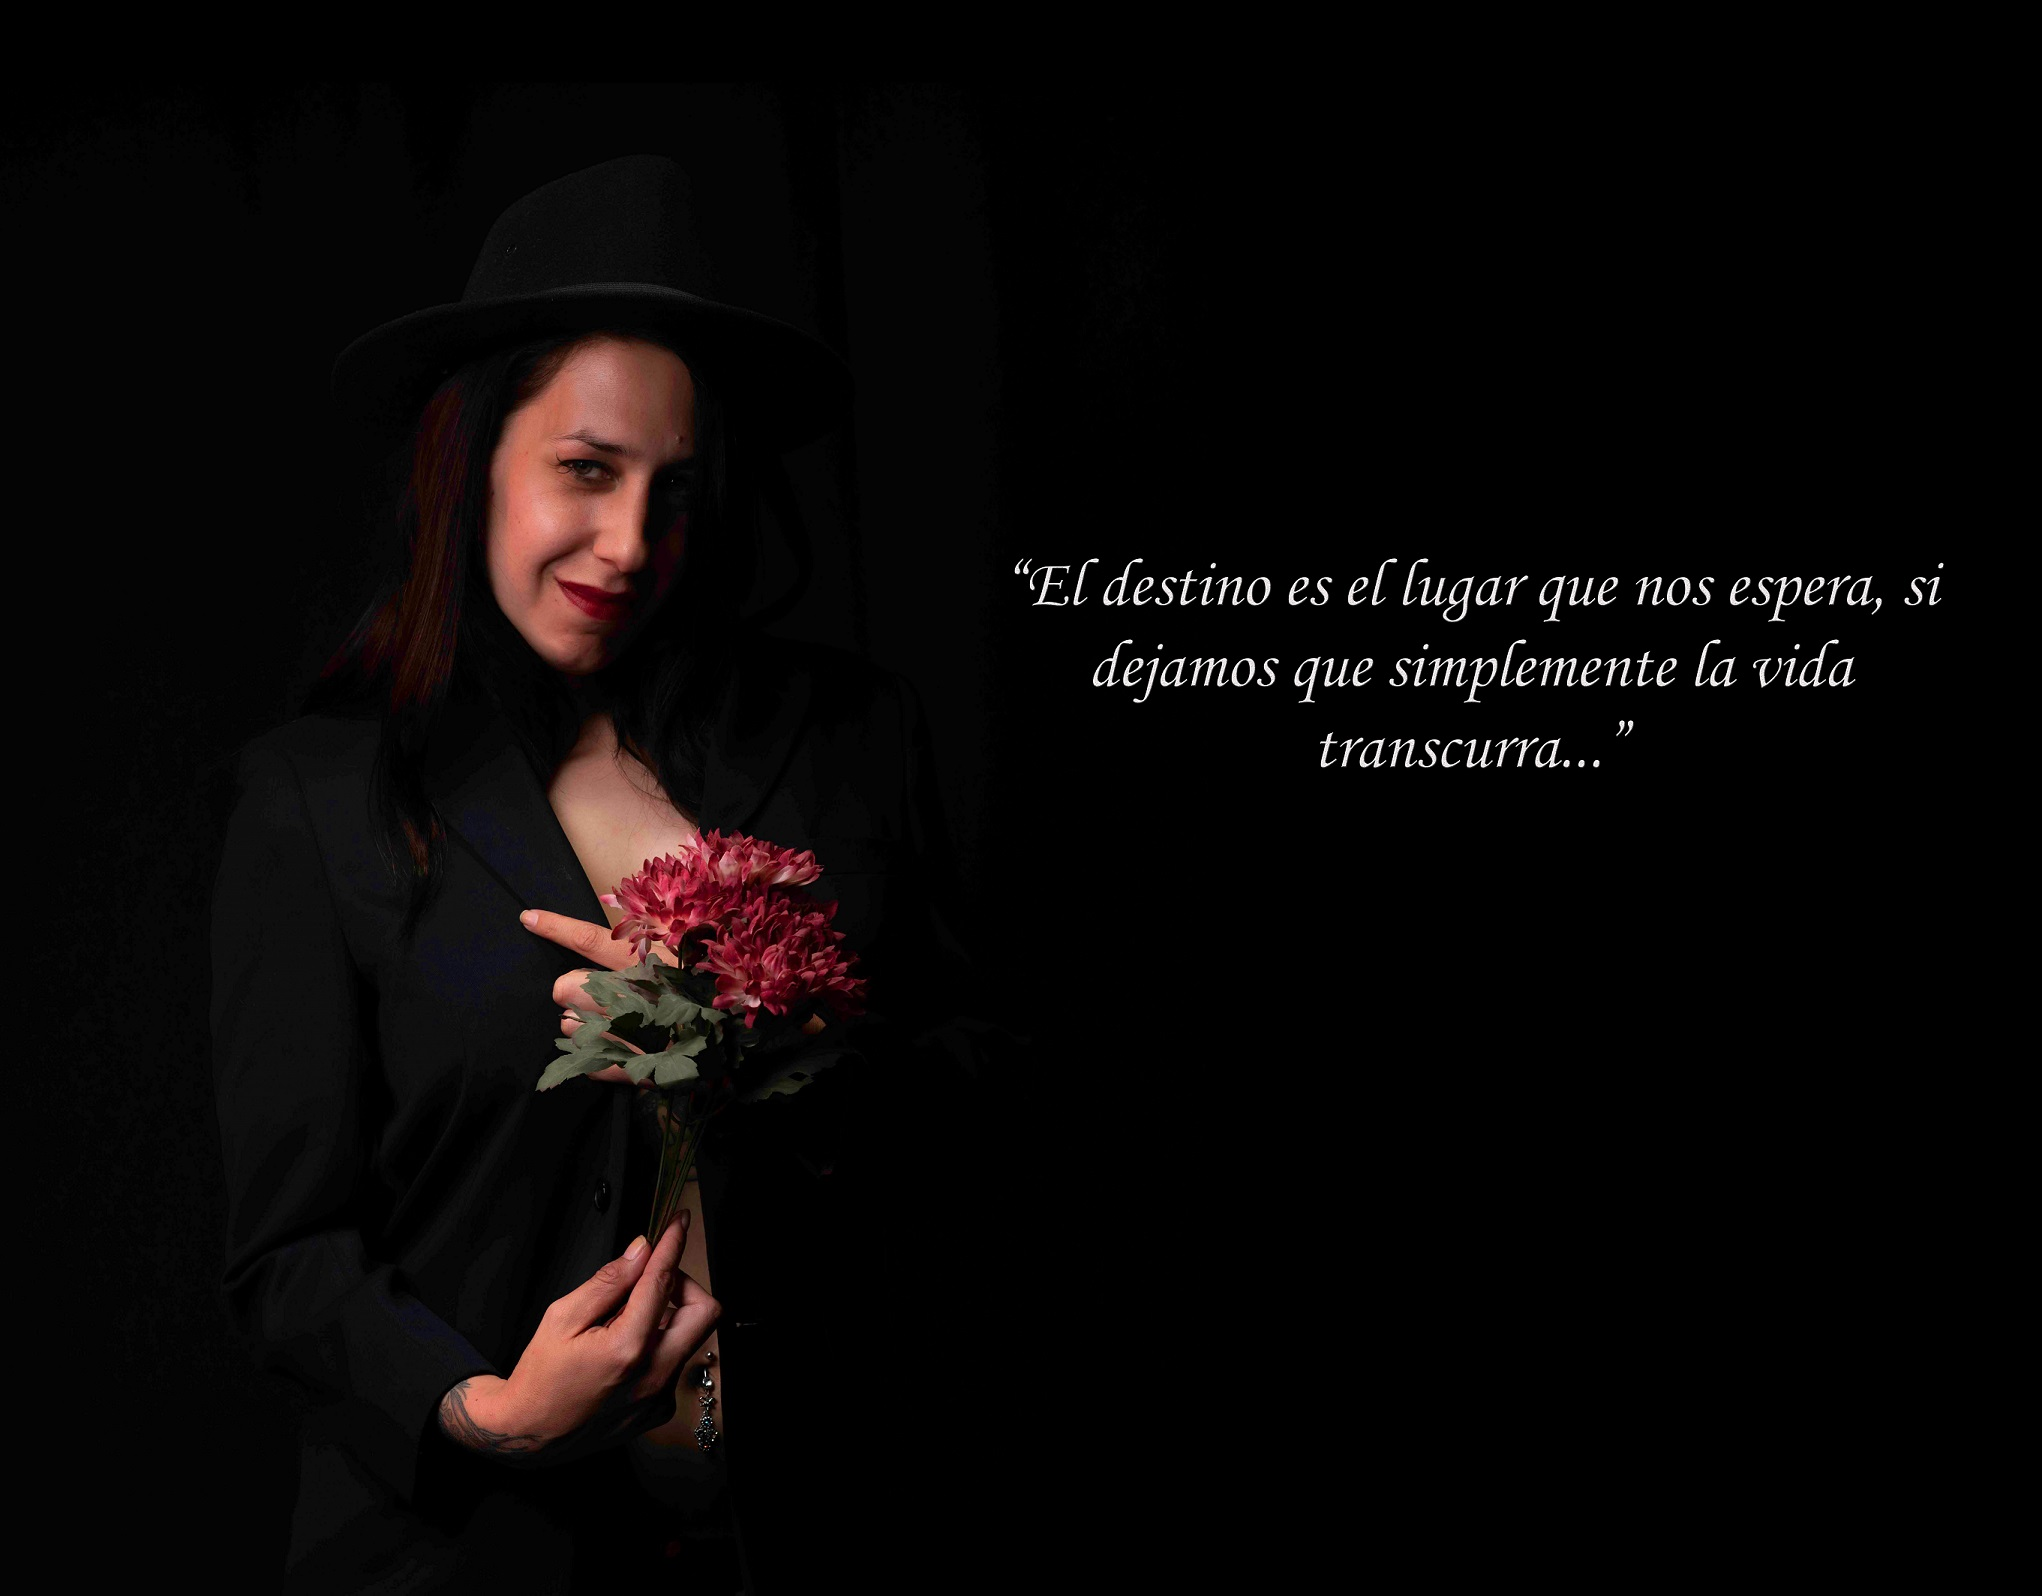
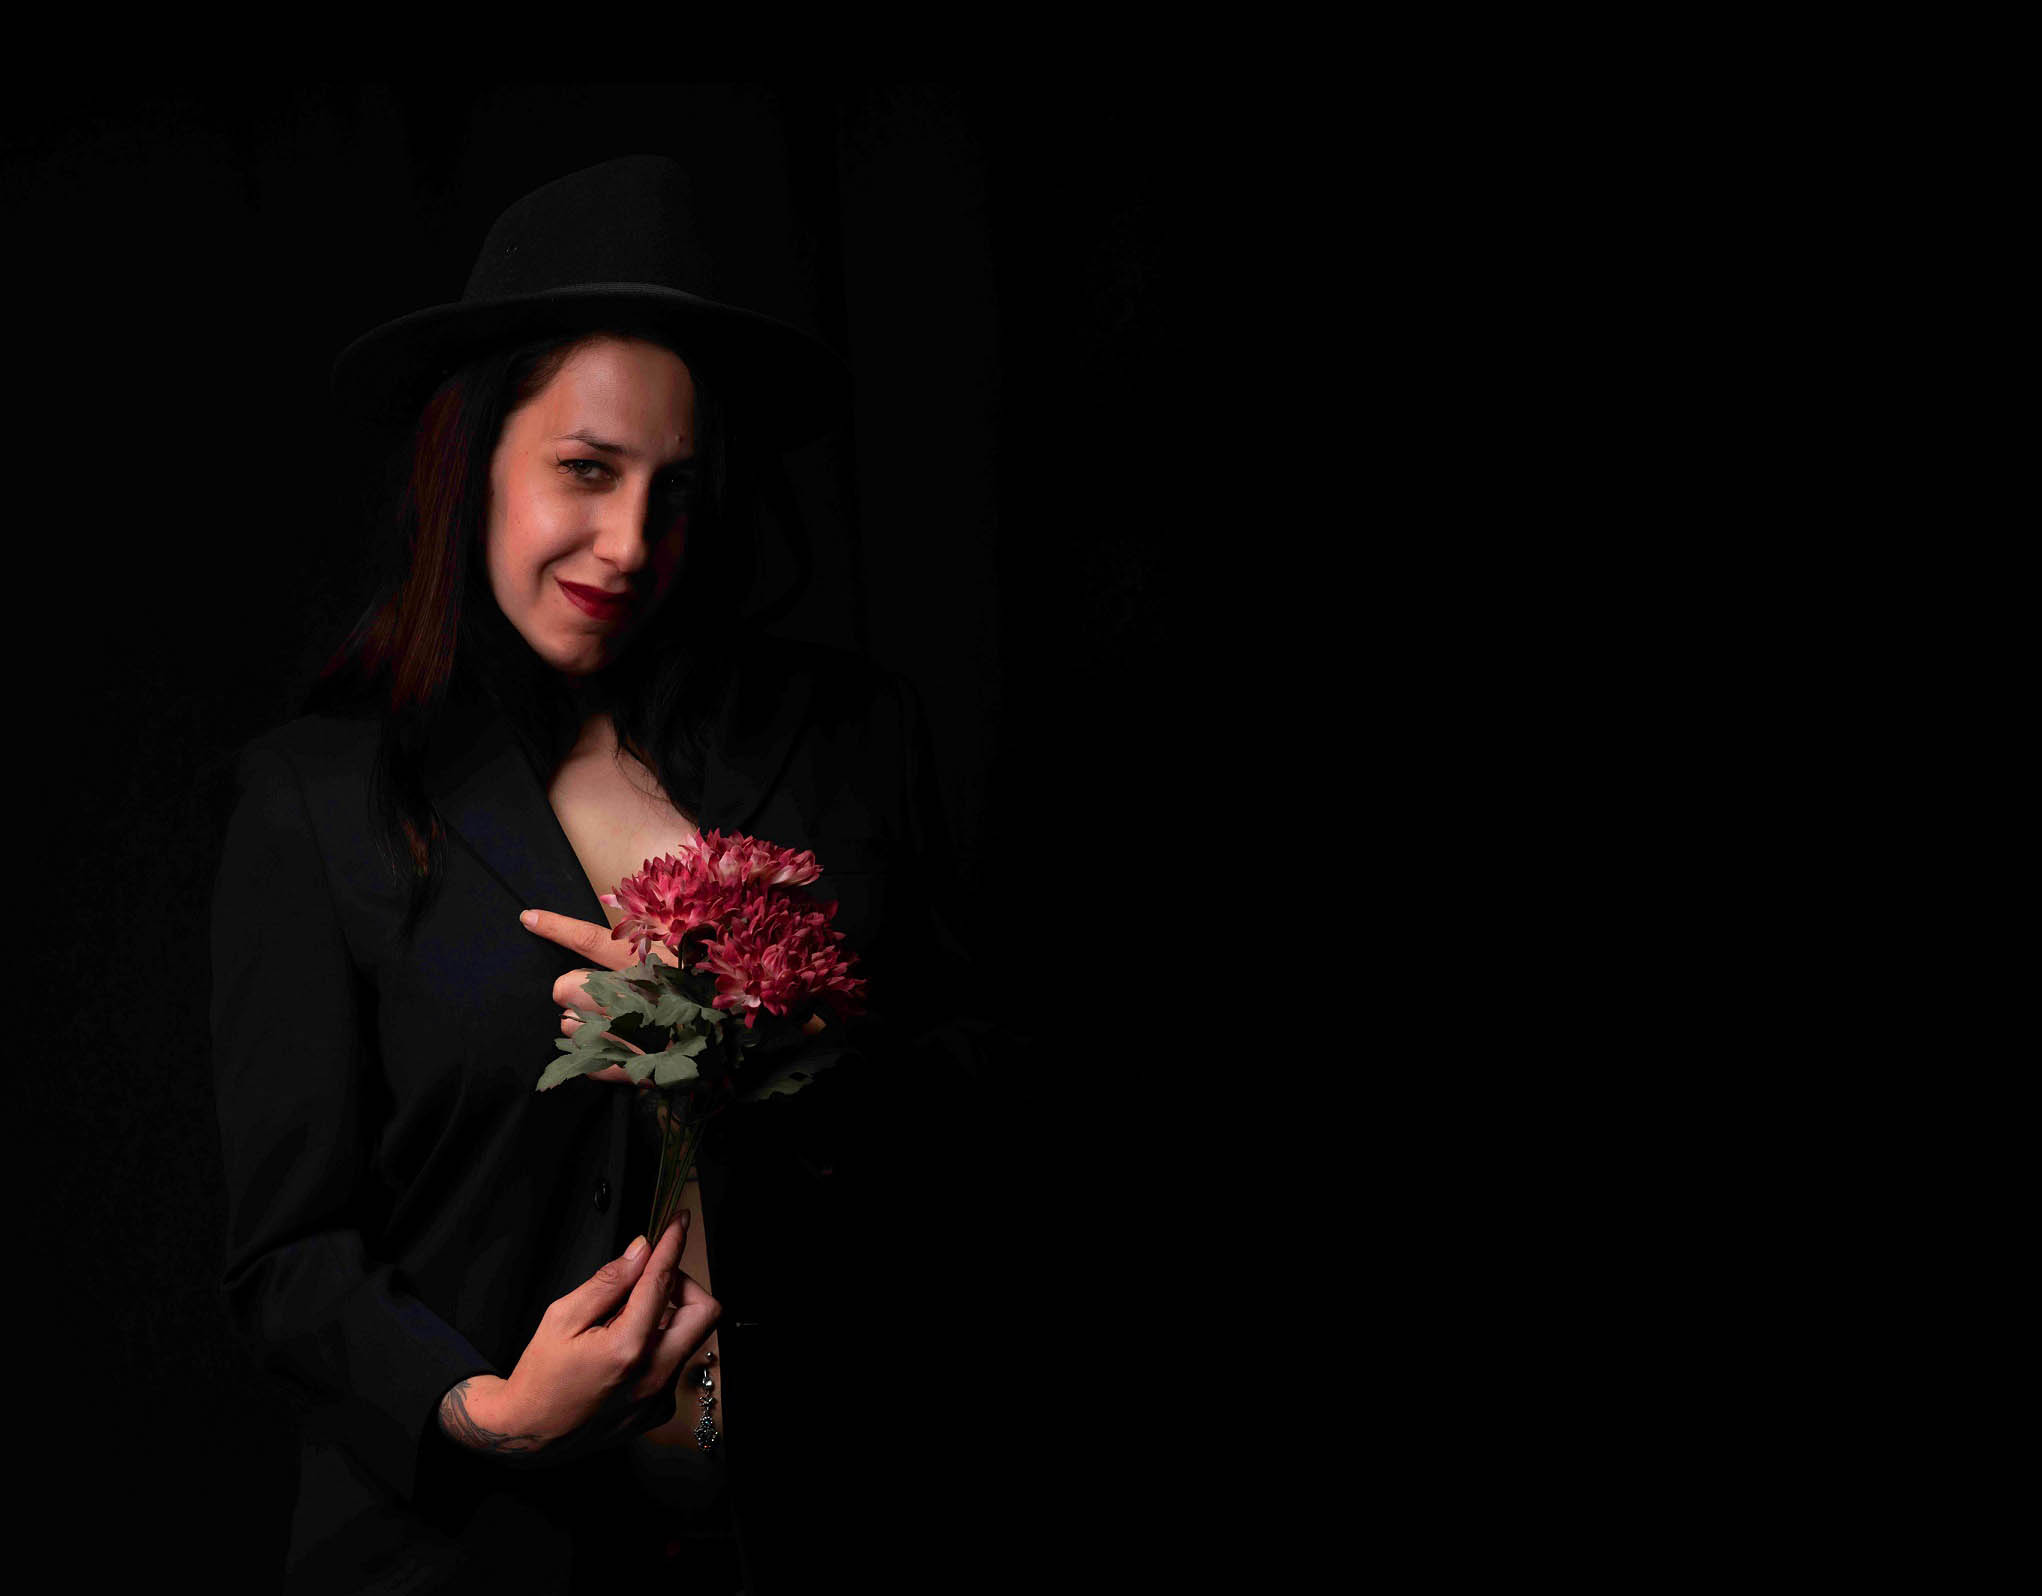
COMMIT

Changed region(s): [[0.4936, 0.3377, 0.9256, 0.4298], [0.6479, 0.4605, 0.7713, 0.4912]]

diff --git a/index.html b/index.html
@@ -1,4 +1,4 @@
-<!DOCTYPE html>
+<!DOCTYPE html5>
 
 <!--CONTRATO-->
 
@@ -16,7 +16,11 @@
     <link href="https://fonts.googleapis.com/css2?family=Oswald:wght@200;300;400&display=swap" rel="stylesheet">
     <!--CUSTOM CSS-->
     <link rel="stylesheet" href="style.css">
-</head>
+    <!--ANIMATED STYLE CSS-->
+    <link rel="stylesheet" href="https://cdnjs.cloudflare.com/ajax/libs/animate.css/4.0.0/animate.min.css"/>
+    <!--GOOGLE FONTS-->
+    <link href="https://fonts.googleapis.com/css2?family=Open+Sans+Condensed:ital,wght@1,300&display=swap" rel="stylesheet">
+  </head>
 
 <body>
 
@@ -67,6 +71,7 @@
    
     <!-- SHOWCASE -->
     <header class="showcase">
+      <h1 class="animate__animated animate__slideInLeft">"El destino es el lugar que nos espera, si dejamos que simplemente la vida transcurra"</h1>
       <a href="#" class="btn">
         Leer más <i class="fas fa-chevron-right"></i>
       </a>
@@ -258,7 +263,7 @@
   <!-- Scroll Reveal -->
   <script src="https://unpkg.com/scrollreveal"></script>
   <script src="main.js"></script>
-  <bgsound src="XXX.mp3" loop= "-1">
+  <audio src="XXX.mp3" loop= "-1"></audio>
 </body>
 
 </html>

diff --git a/style.css b/style.css
@@ -119,9 +119,16 @@
     
   }
   
-  .showcase h2,
-  .showcase p {
-    margin-bottom: 10px;
+  .showcase h1 {
+    margin-bottom: 100px;
+    padding-left: 550px;
+    font-family: 'Open Sans Condensed', sans-serif;
+    display: inline-block;
+    margin: 0 0.5rem;
+    animation: slideInLeft;
+    animation-duration:2s;
+    animation-delay: 0.9s;
+
   }
   
   .showcase .btn {
